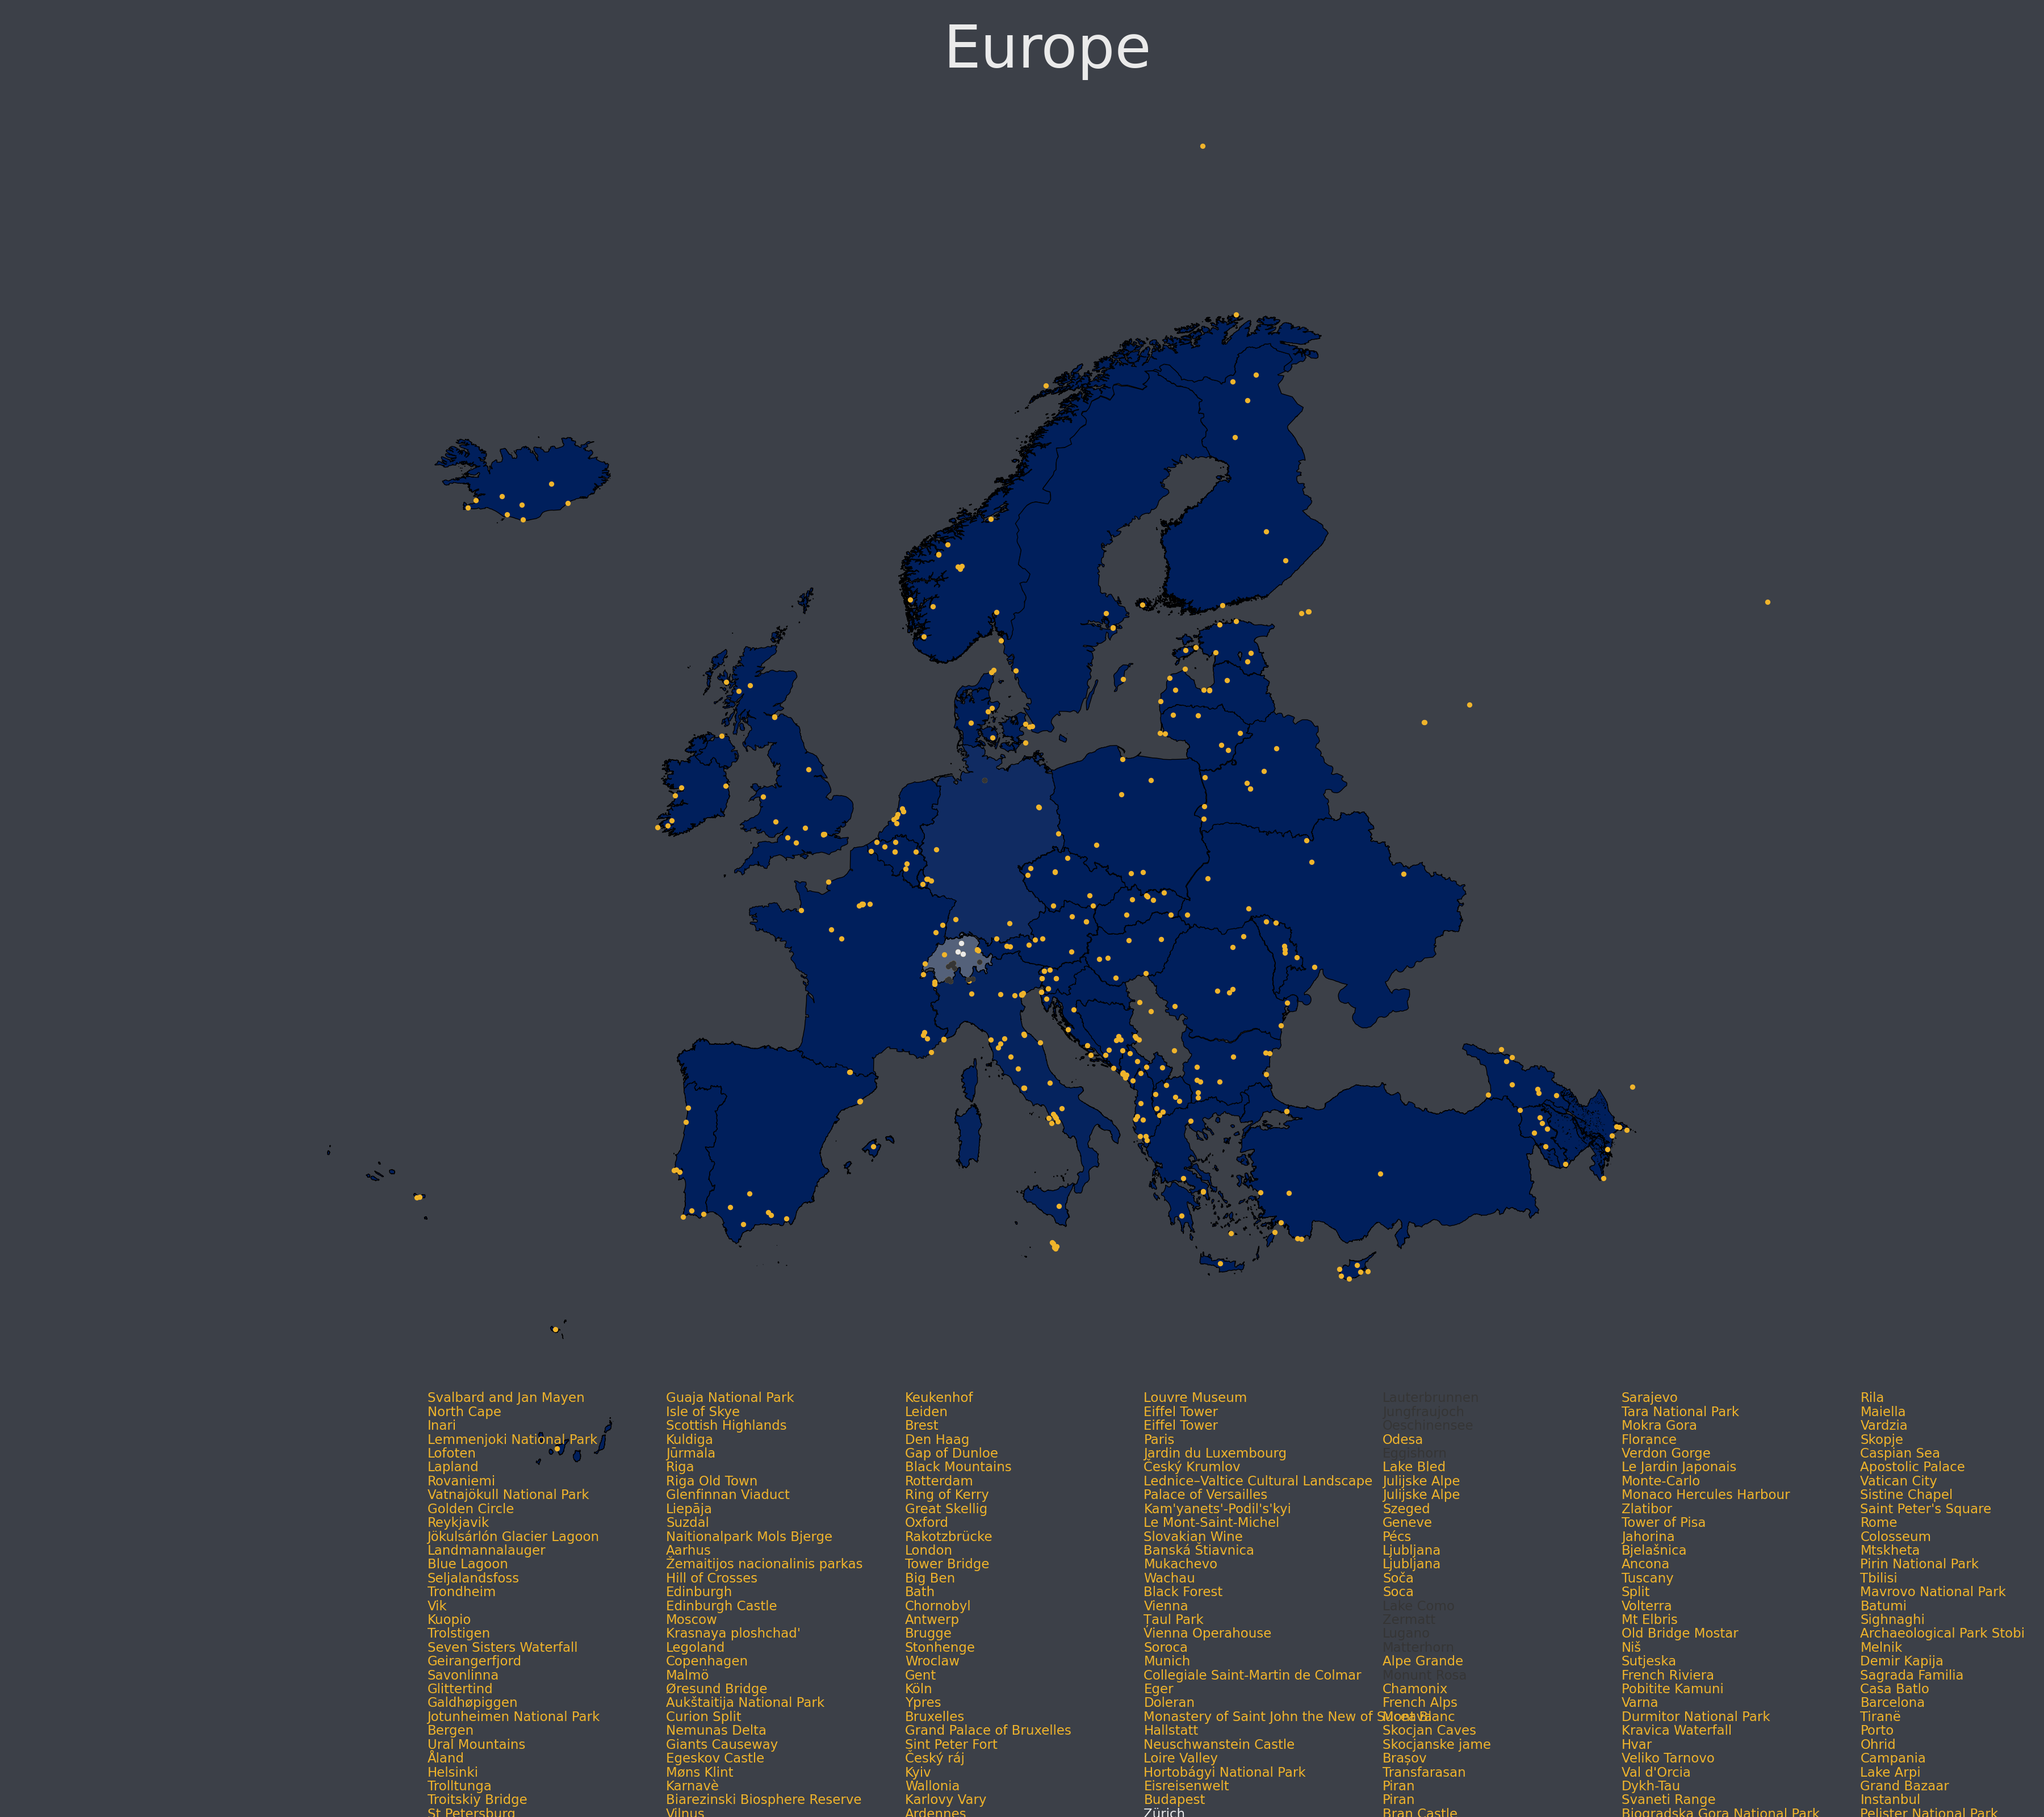
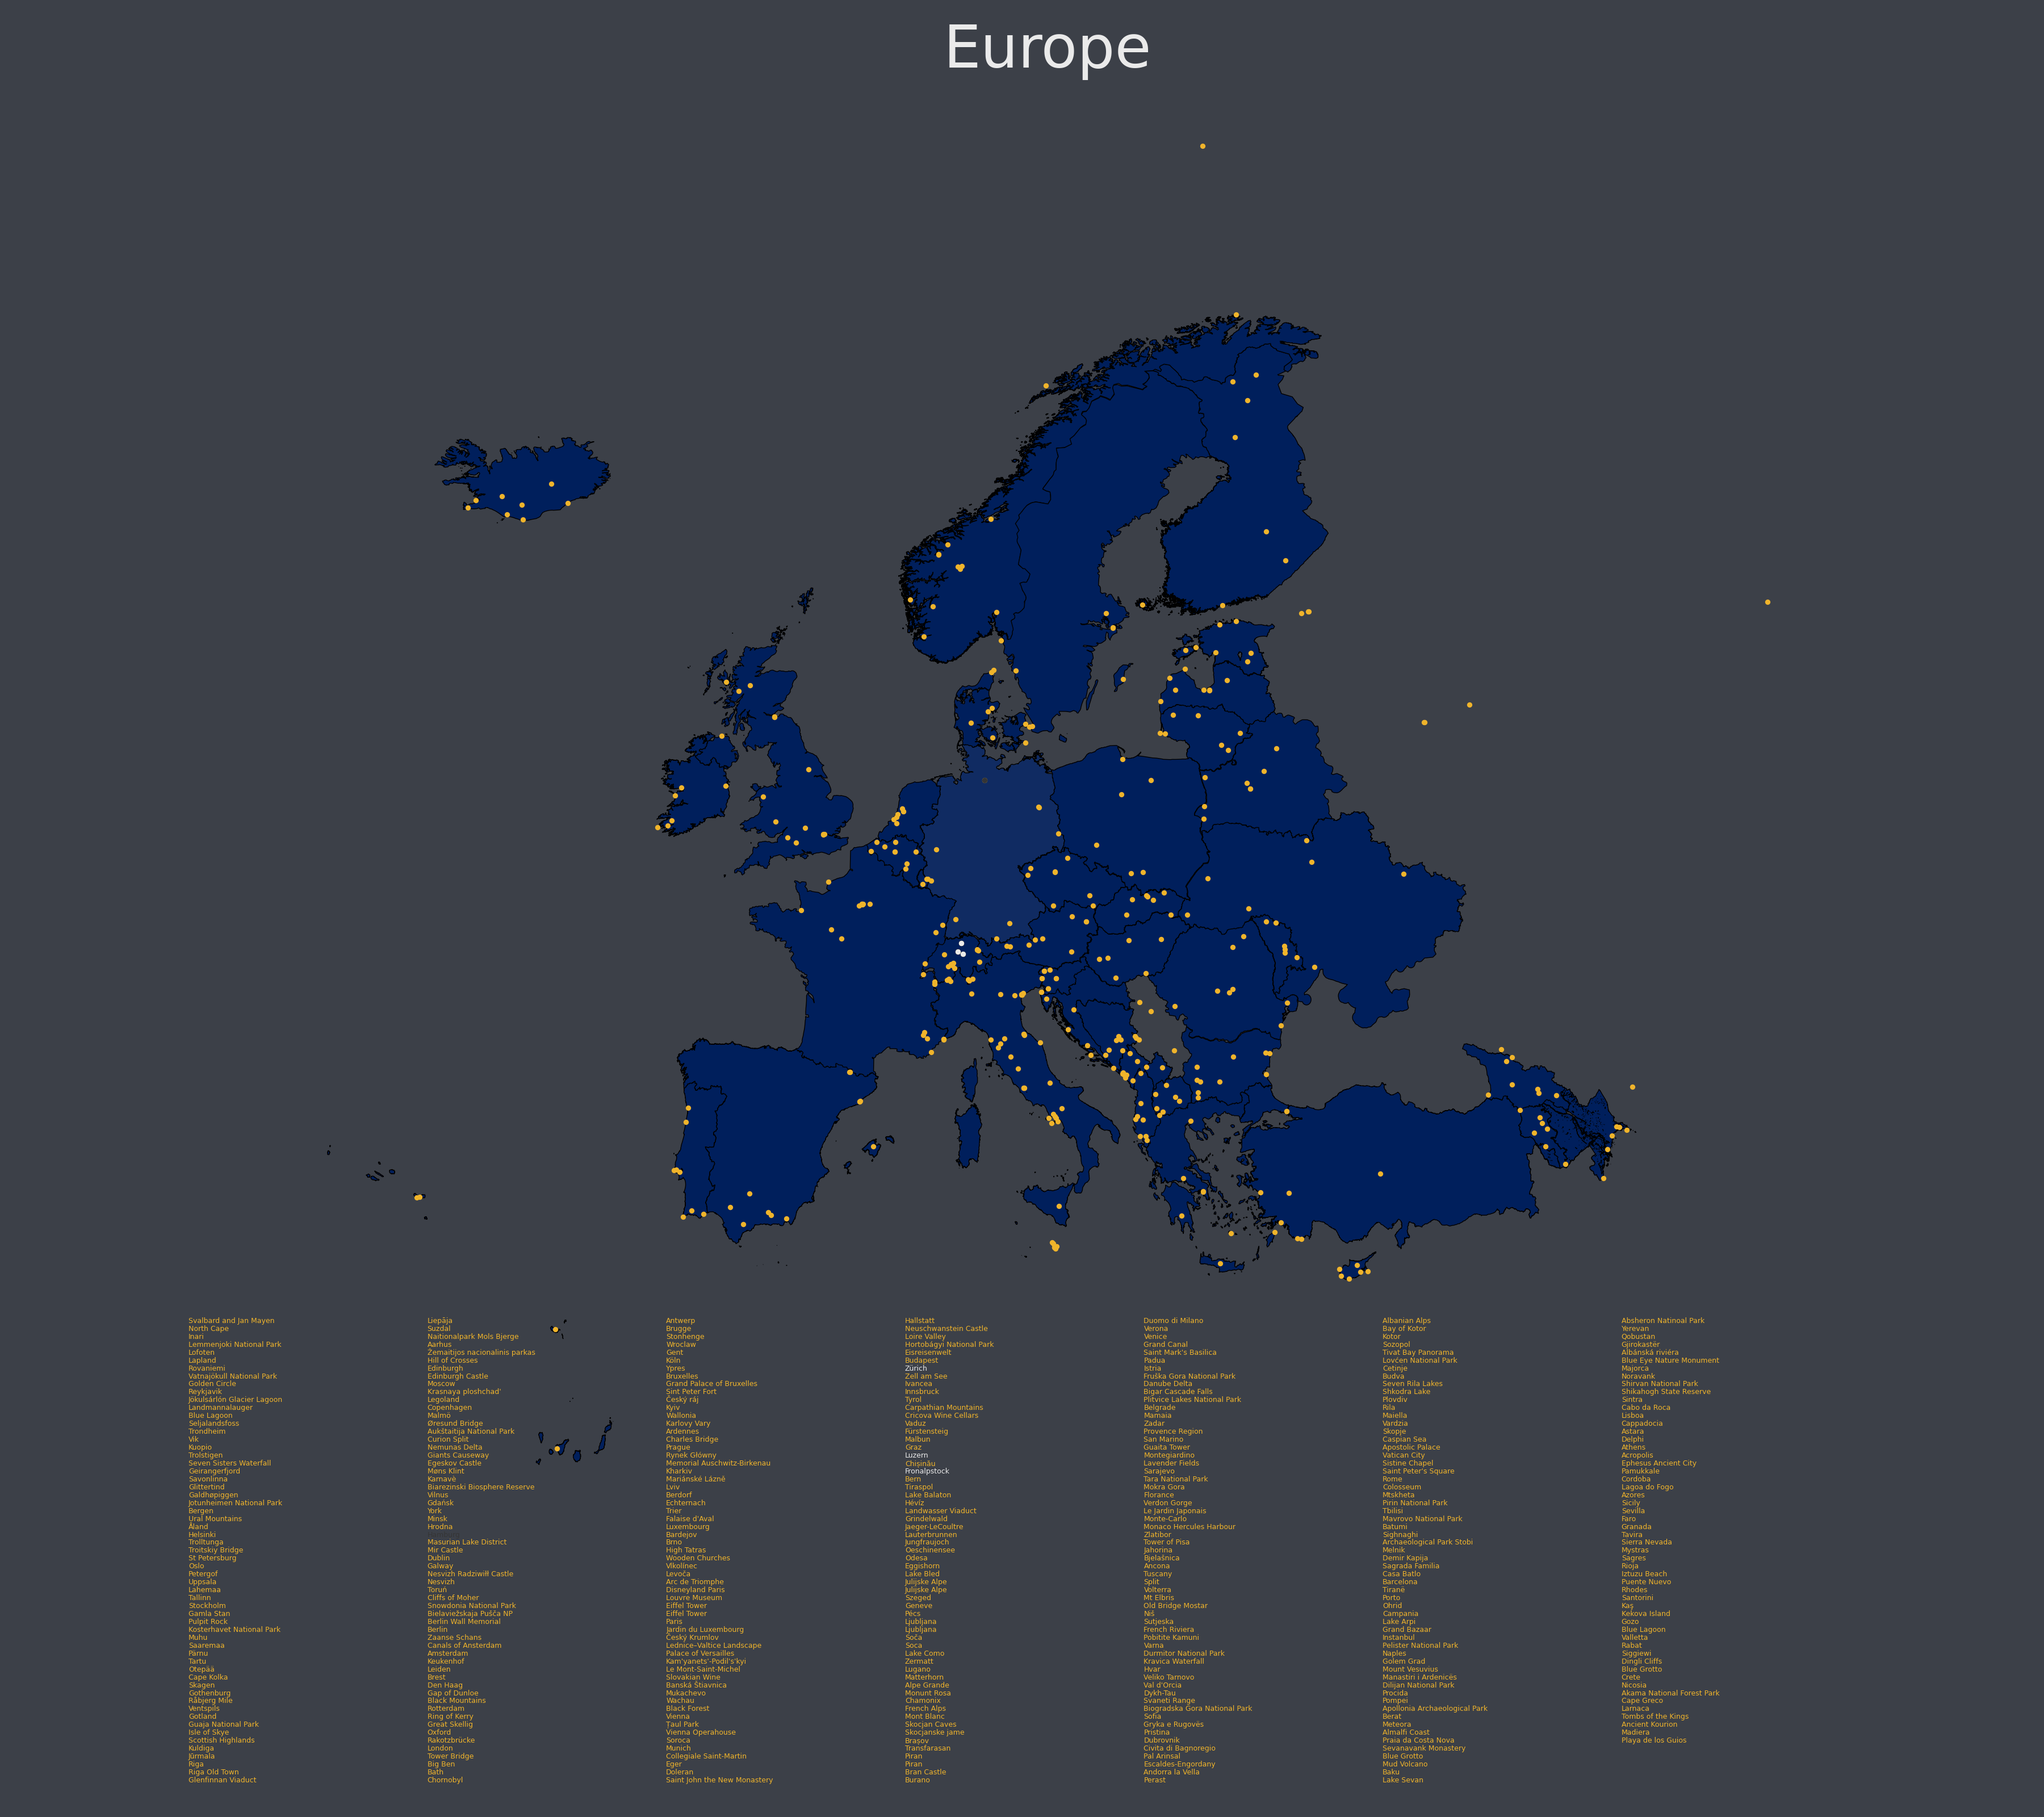
position labels from locations

diff --git a/main.py b/main.py
@@ -5,7 +5,7 @@ from matplotlib import pyplot as plt
 import numpy as np
 import geopandas as gpd
 from shapely.geometry import Point
-import make_gif
+#import make_gif
 import os
 from PIL import Image
 
@@ -13,7 +13,7 @@ from colormap import custom_cmap
 
 
 # Set global variables, directories for map creation and site locations
-SCALE = 1
+SCALE = 3
 
 # US National Park Global Variables
 #PATH = "us"
@@ -151,7 +151,7 @@ for index, row in points_gdf.iterrows():
                     pos_y = labels["Start Latitude"] - labels["Vertical Spacing"]*row
 
                     # Plot the label text
-                    plt.text(pos_x, pos_y, location['name'], fontsize=5.5*SCALE, color=label_color)
+                    plt.text(pos_x, pos_y, location['name'], fontsize=labels["Font"]*SCALE, color=label_color)
 
                     row += 1
                     if row % labels["Splits"] == 0:
@@ -184,7 +184,7 @@ for index, row in points_gdf.iterrows():
     old_date = current_date
 
 # Create gif from produced plots
-make_gif.create_gif(input_folder='./plots/temp', output_gif=f"./gifs/{PATH}_{SCALE}.gif", duration=200)
+#make_gif.create_gif(input_folder='./plots/temp', output_gif=f"./gifs/{PATH}_{SCALE}.gif", duration=200)
 
 # Clean temp directory
 temp_path = "plots/temp/"
